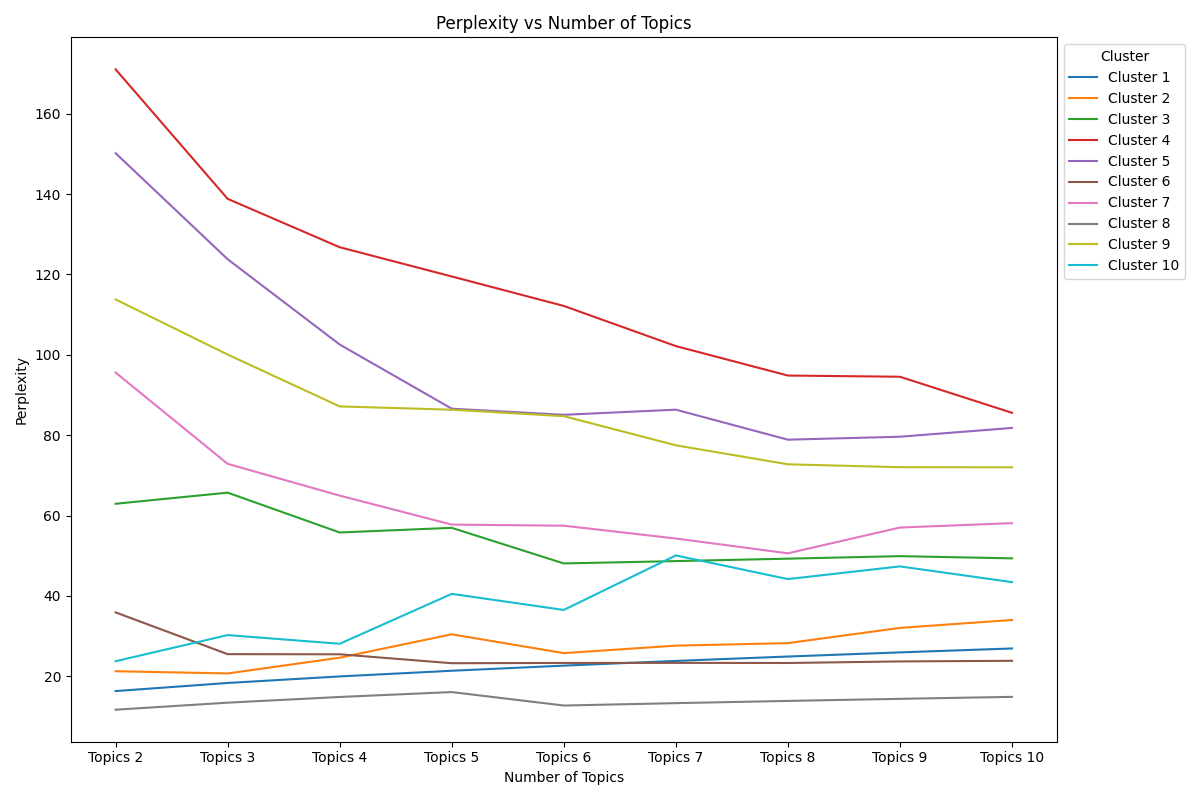
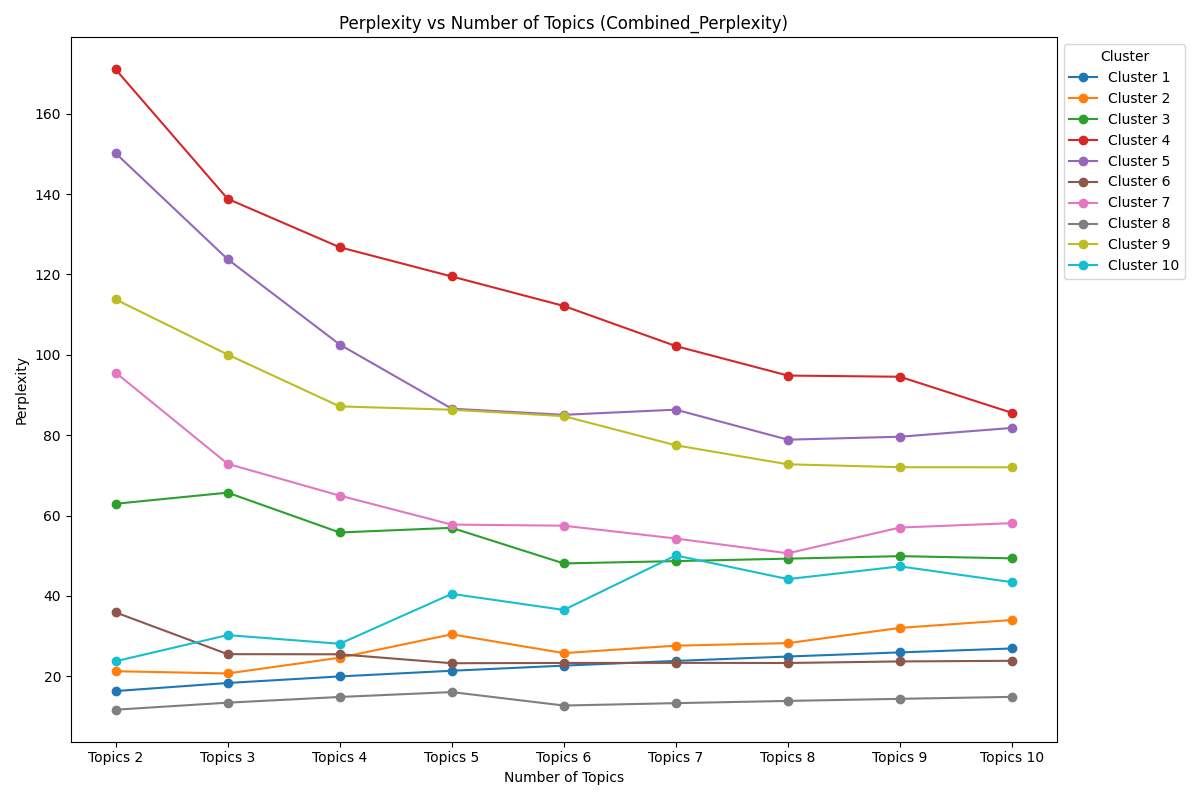
small changes to LDA plots

diff --git a/labelling.py b/labelling.py
@@ -773,8 +773,8 @@ class Labeling:
         fig, ax = plt.subplots(figsize=(12, 8))
         bar_width = 0.35 
         x_pos = merged_df['Cluster'] 
-        ax.bar(x_pos - bar_width/2, merged_df['Topics_Clusters'], label='Clusters Top Topics', color='skyblue', width=bar_width)
-        ax.bar(x_pos + bar_width/2, merged_df['Topics_Combined'], label='Combined Top Topics', color='lightcoral', width=bar_width)
+        ax.bar(x_pos - bar_width/2, merged_df['Topics_Clusters'], label='Clusters Topics', color='skyblue', width=bar_width)
+        ax.bar(x_pos + bar_width/2, merged_df['Topics_Combined'], label='Combined Topics', color='lightcoral', width=bar_width)
         for i in range(len(merged_df)):
             ax.text(x_pos[i] - bar_width/2, merged_df['Topics_Clusters'][i] + 0.1, 
                     str(merged_df['Topics_Clusters'][i]), ha='center', va='bottom', fontsize=10)
@@ -793,22 +793,34 @@ class Labeling:
         print(f"Stacked bar chart saved to {output_file}")
 
     def plot_perplexity(self, file_name):
+        # Read the Perplexity data for the given file
         clusters_perplexity_df = pd.read_csv(os.path.join(self.LDA_folder, file_name + '.csv'))
 
         # Limit to the first 10 clusters for a clearer example
         selected_clusters = clusters_perplexity_df['Cluster'].head(10)
         fig, ax = plt.subplots(figsize=(12, 8))
 
+        # Plot data for each cluster
         for cluster_id in selected_clusters:
             cluster_data = clusters_perplexity_df[clusters_perplexity_df['Cluster'] == cluster_id]
-            ax.plot(cluster_data.columns[1:], cluster_data.iloc[0, 1:], label=f"Cluster {cluster_id}")
+            ax.plot(cluster_data.columns[1:], cluster_data.iloc[0, 1:], label=f"Cluster {cluster_id}", marker='o')  # Add markers
 
+        # Add labels and title
         ax.set_xlabel("Number of Topics")
         ax.set_ylabel("Perplexity")
-        ax.set_title("Perplexity vs Number of Topics")
+        ax.set_title(f"Perplexity vs Number of Topics ({file_name})")  # Add the file name in the title
+
+        # Set up legend
         ax.legend(title="Cluster", loc='upper left', bbox_to_anchor=(1, 1))
+
+        # Adjust layout
         plt.tight_layout()
-        plt.savefig(os.path.join(self.LDA_folder, file_name + "_10_Clusters.png"))
+
+        # Save the plot as a PNG file
+        output_file = os.path.join(self.LDA_folder, file_name + "_10_Clusters.png")
+        plt.savefig(output_file)
+        print(f"Perplexity plot saved to {output_file}")
+
 
 
 # Se desideri esplorare il comportamento dei topic, 

diff --git a/main.py b/main.py
@@ -60,8 +60,8 @@ def main():
         # Apply TF-IDF and generate labels for clusters using the Labeling class
         print("Generating labels using TF-IDF...")
         labeling = Labeling(config_path="config.json")
-        labeling.apply_tfidf()
-        #labeling.apply_lda()
+        #labeling.apply_tfidf()
+        labeling.apply_lda()
         print("Labels generation completed.")
         
         print("Finished elaboration time: ", get_current_timestamp())
